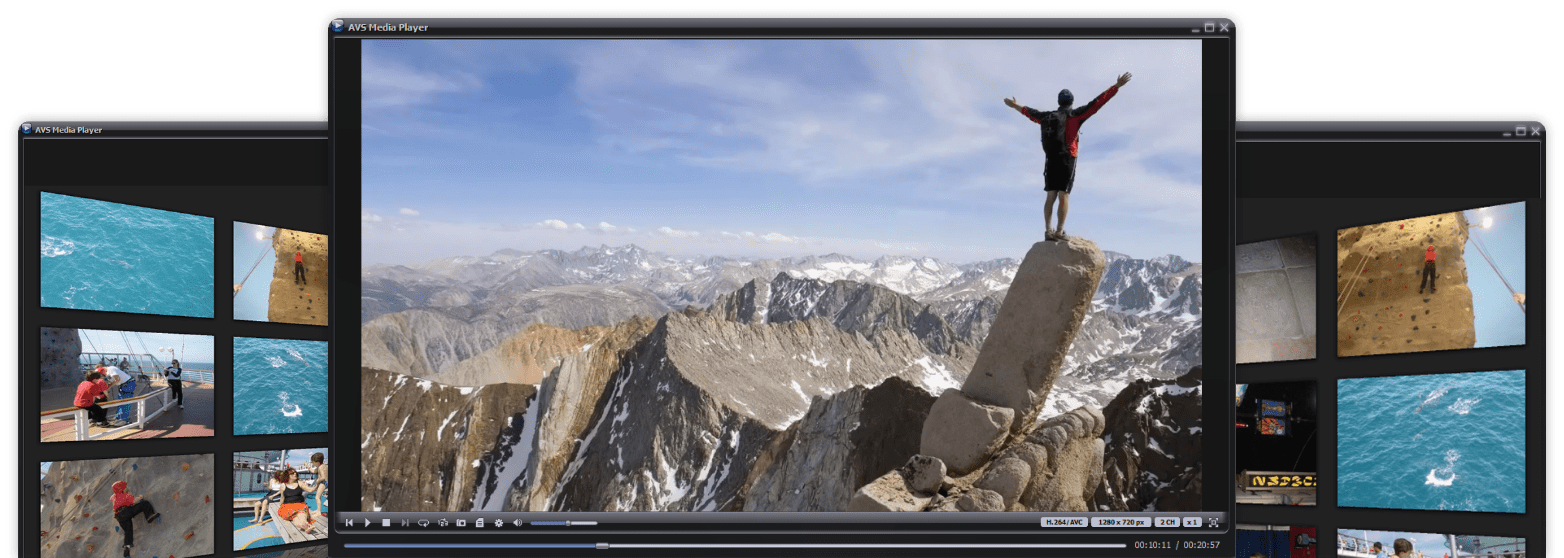
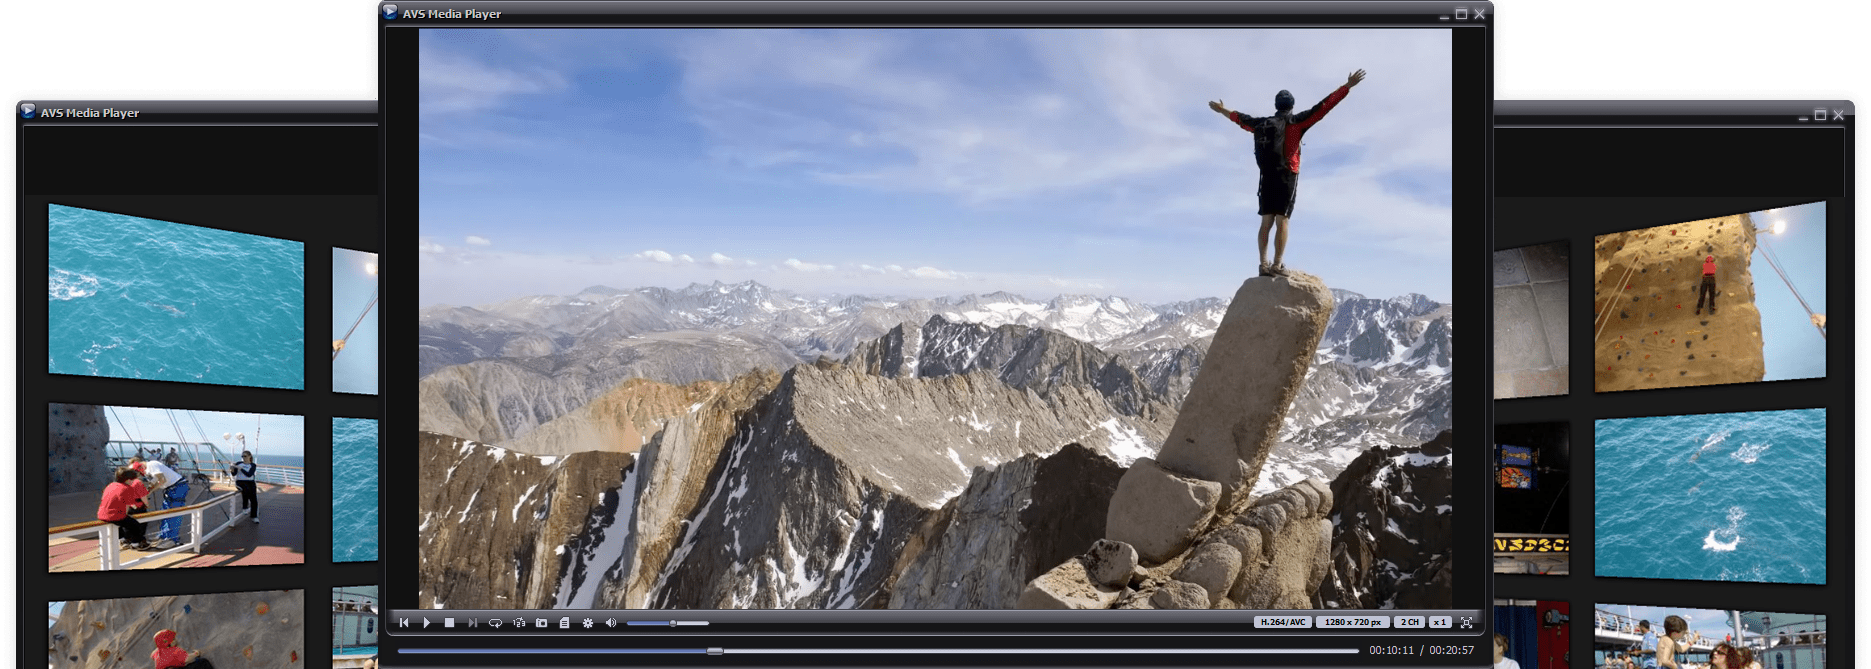
Updated images on media player page

diff --git a/Client/src/pages/avs-free-media-player.aspx.js b/Client/src/pages/avs-free-media-player.aspx.js
@@ -103,7 +103,7 @@ class avsFreeMediaPlayer extends React.PureComponent {
             <ContentRowItem
               id="overview"
               imgLeft={true}
-              imageName="media_player_slide2.png"
+              imageName="media_player_slide2.jpg"
               headerText="Watch video"
             >
               <Text className="ListItem">Play videos with almost any file extension such as AVI, MPEG, WMV, MP4, MKV, FLV, OGG, etc.</Text>
@@ -113,7 +113,7 @@ class avsFreeMediaPlayer extends React.PureComponent {
 
             <ContentRowItem
               imgLeft={false}
-              imageName="media_player_slide3.png"
+              imageName="media_player_slide3.jpg"
               headerText="Play audio"
             >
               <Text className="ListItem">Add audio tracks of any format such as WAV, MP3, ALAC, FLAC, M4A, OGG, AAC, AMR, etc.</Text>
@@ -122,7 +122,7 @@ class avsFreeMediaPlayer extends React.PureComponent {
 
             <ContentRowItem
               imgLeft={true}
-              imageName="media_player_slide4.png"
+              imageName="media_player_slide4.jpg"
               headerText="View pictures"
             >
               <Text className="ListItem">Select images in PNG, JPEG, GIF, etc. and view them as a slideshow.</Text>
@@ -131,7 +131,7 @@ class avsFreeMediaPlayer extends React.PureComponent {
 
             <ContentRowItem
               imgLeft={false}
-              imageName="media_player_slide5.png"
+              imageName="media_player_slide5.jpg"
               headerText="Enjoy sound-around effect"
             >
               <Text className="ListItem">Free AVS Media Player supports of 3.1, 5.1 and 7.1 speaker configurations.</Text>
@@ -144,8 +144,8 @@ class avsFreeMediaPlayer extends React.PureComponent {
           </div>
           <Text id="screenshotsCarousel" className="carouselHeader" as="h2">Free AVS Media Player</Text>
           <ScreenshotsCarousel
-            imageNames={["media_player_slide1.png", "media_player_slide2.png", "media_player_slide3.png", "media_player_slide4.png", "media_player_slide5.png"]}
-            imageNamesPopup={["media_player_slide1.png", "media_player_formats2x.png", "media_player_audio_formats2x.png", "media_player_slideshow2x.png", "media_player_surround2x.png"]}
+            imageNames={["media_player_slide1.jpg", "media_player_slide2.jpg", "media_player_slide3.jpg", "media_player_slide4.jpg", "media_player_slide5.jpg"]}
+            imageNamesPopup={["media_player_slide1.jpg", "media_player_slide2.jpg", "media_player_slide3.jpg", "media_player_slide4.jpg", "media_player_slide5.jpg"]}
             altText={["slideCarousel1", "slideCarousel2", "slideCarousel3", "slideCarousel4", "slideCarousel5"]}
 
           />
